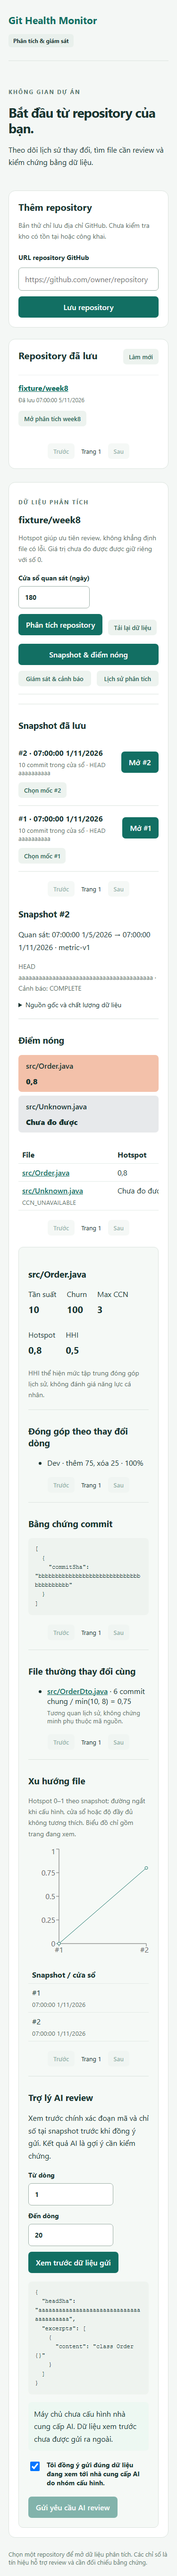
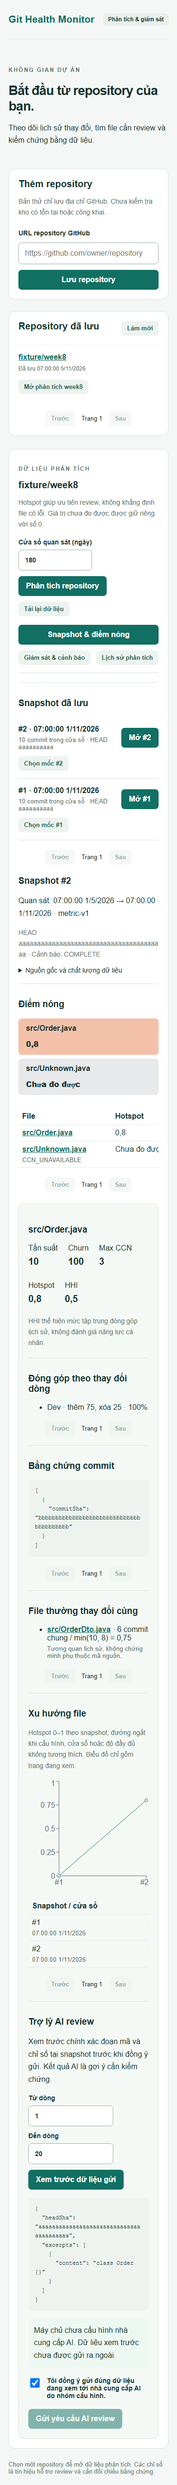
fix: wrap long dashboard values across mobile font environments

diff --git a/frontend/src/App.css b/frontend/src/App.css
@@ -12,3 +12,4 @@ button { border: 0; border-radius: 7px; background: #126f63; color: white; paddi
 @media (max-width: 760px) { main { padding: 0 18px; }.workspace { grid-template-columns: 1fr; }.panel { padding: 20px; }.masthead { flex-wrap: wrap; }.section-head { flex-wrap: wrap; }.repository-list li { flex-direction: column; } }
 .dashboard { margin-top: 28px; }h3 { margin-top: 24px; }.toolbar, .tabs { display: flex; gap: 12px; flex-wrap: wrap; align-items: end; margin: 18px 0; }.toolbar label { display: grid; gap: 8px; max-width: 100%; }.toolbar input { max-width: 180px; }.tabs { border-bottom: 1px solid #dce4df; padding-bottom: 16px; }.tabs button { flex-grow: 1; }select { display: block; padding: 12px; border: 1px solid #9cafa6; border-radius: 7px; max-width: 100%; background: white; color: #18332f; }button:disabled { opacity: .5; cursor: not-allowed; }button:focus-visible, input:focus-visible, select:focus-visible, summary:focus-visible { outline: 3px solid #e3a538; outline-offset: 3px; }.table-scroll { overflow-x: auto; }td { vertical-align: top; }small { display: block; color: #5a7068; margin-top: 6px; }.text-button { padding: 0; text-align: left; background: none; color: #126f63; text-decoration: underline; overflow-wrap: anywhere; }.snapshot-list { padding: 0; list-style: none; }.snapshot-list li { display: flex; align-items: center; flex-wrap: wrap; gap: 12px; border-bottom: 1px solid #dce4df; padding: 16px 0; }.snapshot-list li div { flex: 1; min-width: 180px; }.subsection { border-top: 1px solid #dce4df; margin-top: 20px; padding-top: 8px; }.heatmap { display: grid; grid-template-columns: repeat(auto-fit, minmax(160px, 1fr)); gap: 8px; margin: 16px 0; }.heat { color: #18332f; text-align: left; min-width: 0; overflow-wrap: anywhere; }.heat strong { display: block; margin-top: 12px; }.heat.high { background: #f3c1aa; }.heat.medium { background: #f6e5ae; }.heat.low { background: #cde7dc; }.heat.unknown { background: #e7e9eb; }.file-detail { padding: 20px; background: #f5f9f6; border: 1px solid #dce4df; border-radius: 10px; margin-top: 24px; overflow-wrap: anywhere; }.metrics { display: flex; flex-wrap: wrap; gap: 22px; }.metrics dd { margin: 8px 0; font-size: 20px; font-weight: 650; }.evidence-json { white-space: pre-wrap; overflow-wrap: anywhere; max-height: 420px; overflow-y: auto; font-size: 12px; line-height: 1.6; background: #eef3ef; padding: 14px; border-radius: 8px; }.alert-card { border: 1px solid #dce4df; border-radius: 8px; padding: 16px; margin: 12px 0; }.consent { display: flex; gap: 12px; align-items: start; margin: 20px 0; }.consent input { width: 20px; height: 20px; flex-shrink: 0; }
 .table-scroll table { min-width: 620px; }.table-scroll th { white-space: nowrap; }.table-scroll td:first-child { min-width: 180px; max-width: 330px; overflow-wrap: anywhere; }
+.dashboard { overflow-wrap: anywhere; }.toolbar button { max-width: 100%; white-space: normal; }

diff --git a/frontend/e2e/week8.spec.ts b/frontend/e2e/week8.spec.ts
@@ -93,6 +93,8 @@ test('AI requires preview-bound consent and clears it on range change', async ({
 test('missing provider stays explicit and mobile layout fits', async ({ page }) => {
   await page.setViewportSize({ width: 375, height: 812 })
   await setup(page, false); await openFile(page)
+  // Exercise a wider Linux-like fallback font as well as the host's system font.
+  await page.addStyleTag({ content: ':root { font-family: Arial, sans-serif; }' })
   await page.getByRole('button', { name: 'Xem trước dữ liệu gửi' }).click()
   await expect(page.getByText('Máy chủ chưa cấu hình nhà cung cấp AI. Dữ liệu xem trước chưa được gửi ra ngoài.')).toBeVisible()
   await page.getByRole('checkbox').check()
